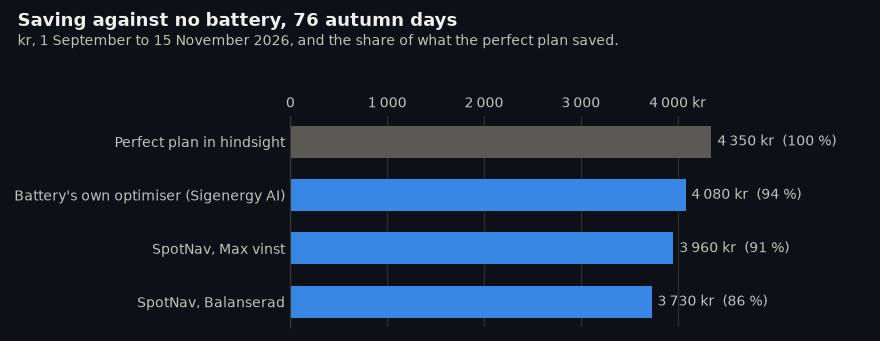
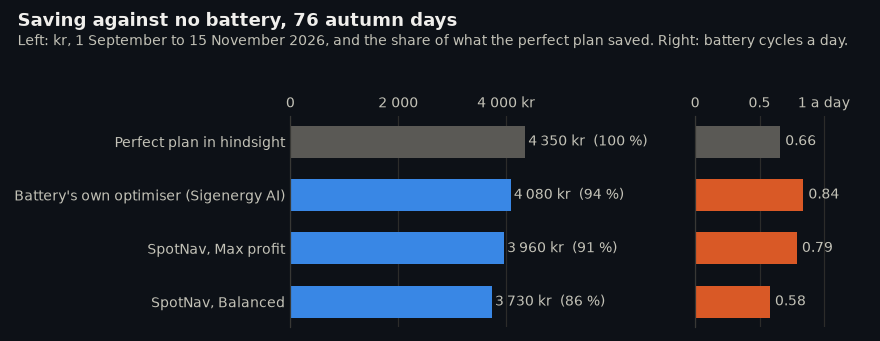
Use the English battery mode names in the forecast experiments page and charts, and add battery cycles to the autumn chart.

diff --git a/docs/forecast-experiments.md b/docs/forecast-experiments.md
@@ -63,7 +63,7 @@ a result holds up or is luck.
 ## Results
 
 Forecast error, next day as issued at 13:00, December to February (lower is better), and money on the winter days
-against today's model, in kronor over 89 days (Max vinst mode):
+against today's model, in kronor over 89 days (Max profit mode):
 
 | Forecast | MAE, kW | Money vs today's |
 | --- | ---: | ---: |
@@ -85,10 +85,10 @@ against today's model, in kronor over 89 days (Max vinst mode):
 
 <picture>
   <source media="(prefers-color-scheme: dark)" srcset="images/forecast-experiments/winter-money-dark.png">
-  <img src="images/forecast-experiments/winter-money-light.png" alt="Horizontal bar chart of kronor over 89 winter days against today's model, Max vinst mode: A -1, B -3, C -3, D2 0, D4 -1, today's at the 60th percentile +3, each with a resampling range of a few kronor; a line at +12 kr marks a perfect house forecast.">
+  <img src="images/forecast-experiments/winter-money-light.png" alt="Horizontal bar chart of kronor over 89 winter days against today's model, Max profit mode: A -1, B -3, C -3, D2 0, D4 -1, today's at the 60th percentile +3, each with a resampling range of a few kronor; a line at +12 kr marks a perfect house forecast.">
 </picture>
 
-*Money against today's model over 89 winter days, Max vinst mode. Even a perfect house forecast would add only 12 kr.*
+*Money against today's model over 89 winter days, Max profit mode. Even a perfect house forecast would add only 12 kr.*
 
 What the table says:
 
@@ -103,10 +103,12 @@ What the table says:
 
 <picture>
   <source media="(prefers-color-scheme: dark)" srcset="images/forecast-experiments/autumn-money-dark.png">
-  <img src="images/forecast-experiments/autumn-money-light.png" alt="Horizontal bar chart of the saving against no battery over 76 autumn days: perfect plan 4 350 kr (100 %), Sigenergy AI 4 080 kr (94 %), SpotNav Max vinst 3 960 kr (91 %), SpotNav Balanserad 3 730 kr (86 %).">
+  <img src="images/forecast-experiments/autumn-money-light.png" alt="Horizontal bar chart of the saving against no battery over 76 autumn days, beside the battery cycles a day. Perfect plan 4 350 kr (100 %, 0.66 cycles a day), Sigenergy AI 4 080 kr (94 %, 0.84), SpotNav Max profit 3 960 kr (91 %, 0.79), SpotNav Balanced 3 730 kr (86 %, 0.58).">
 </picture>
 
-*Saving against no battery, 1 September to 15 November 2026, and the share of the perfect plan (Max vinst rules).*
+*Saving against no battery, 1 September to 15 November 2026, and the share of the perfect plan (Max profit rules), with the battery cycles a day on the right.*
+
+The battery's own optimiser cycles the most, 0.84 a day, 26 % more than the perfect plan. After a wear cost of 15 öre per kWh in and out, the gap narrows: net of wear, the perfect plan is 3 721 kr, Sigenergy AI 3 290 kr, SpotNav Max profit 3 206 kr and SpotNav Balanced 3 183 kr.
 
 ## Tried and rejected
 
@@ -172,8 +174,8 @@ logged it, so the provider's hourly shape is an estimate that flatters it.
   is 0.506 kW against 0.508 kW, and in money the difference is within about 15 kr on both data sets, with no
   consistent sign.
 * **The raw provider forecast is the costly one.** It forecast 1.57 times the PV that was measured in autumn. On
-  the data set where the car's charging is taken out of the house load it lost 42 kr (Max vinst) and 28 kr
-  (Balanserad) to the corrected forecast, every week the same way. On the other data set the loss was 18 and 7 kr
+  the data set where the car's charging is taken out of the house load it lost 42 kr (Max profit) and 28 kr
+  (Balanced) to the corrected forecast, every week the same way. On the other data set the loss was 18 and 7 kr
   and not significant. The true loss is probably larger, because of the estimate above.
 * **Over a year our own forecast beats the simple alternatives** (441 days, hourly error).
 
@@ -193,7 +195,7 @@ logged it, so the provider's hourly shape is an estimate that flatters it.
 * **A new site starts well.** With no history the first week's error is about 40 % above a full history's, and
   still well under yesterday's PV. It is within about 5 % from week 2 to 4.
 
-Autumn has little sun, so the money at stake was small: a perfect sun forecast would have earned 34 kr (Max vinst)
+Autumn has little sun, so the money at stake was small: a perfect sun forecast would have earned 34 kr (Max profit)
 over today's on the 76 days. Summer is untested at decision level; the forecast-level result above covers the year.
 
 **Tried and rejected**
